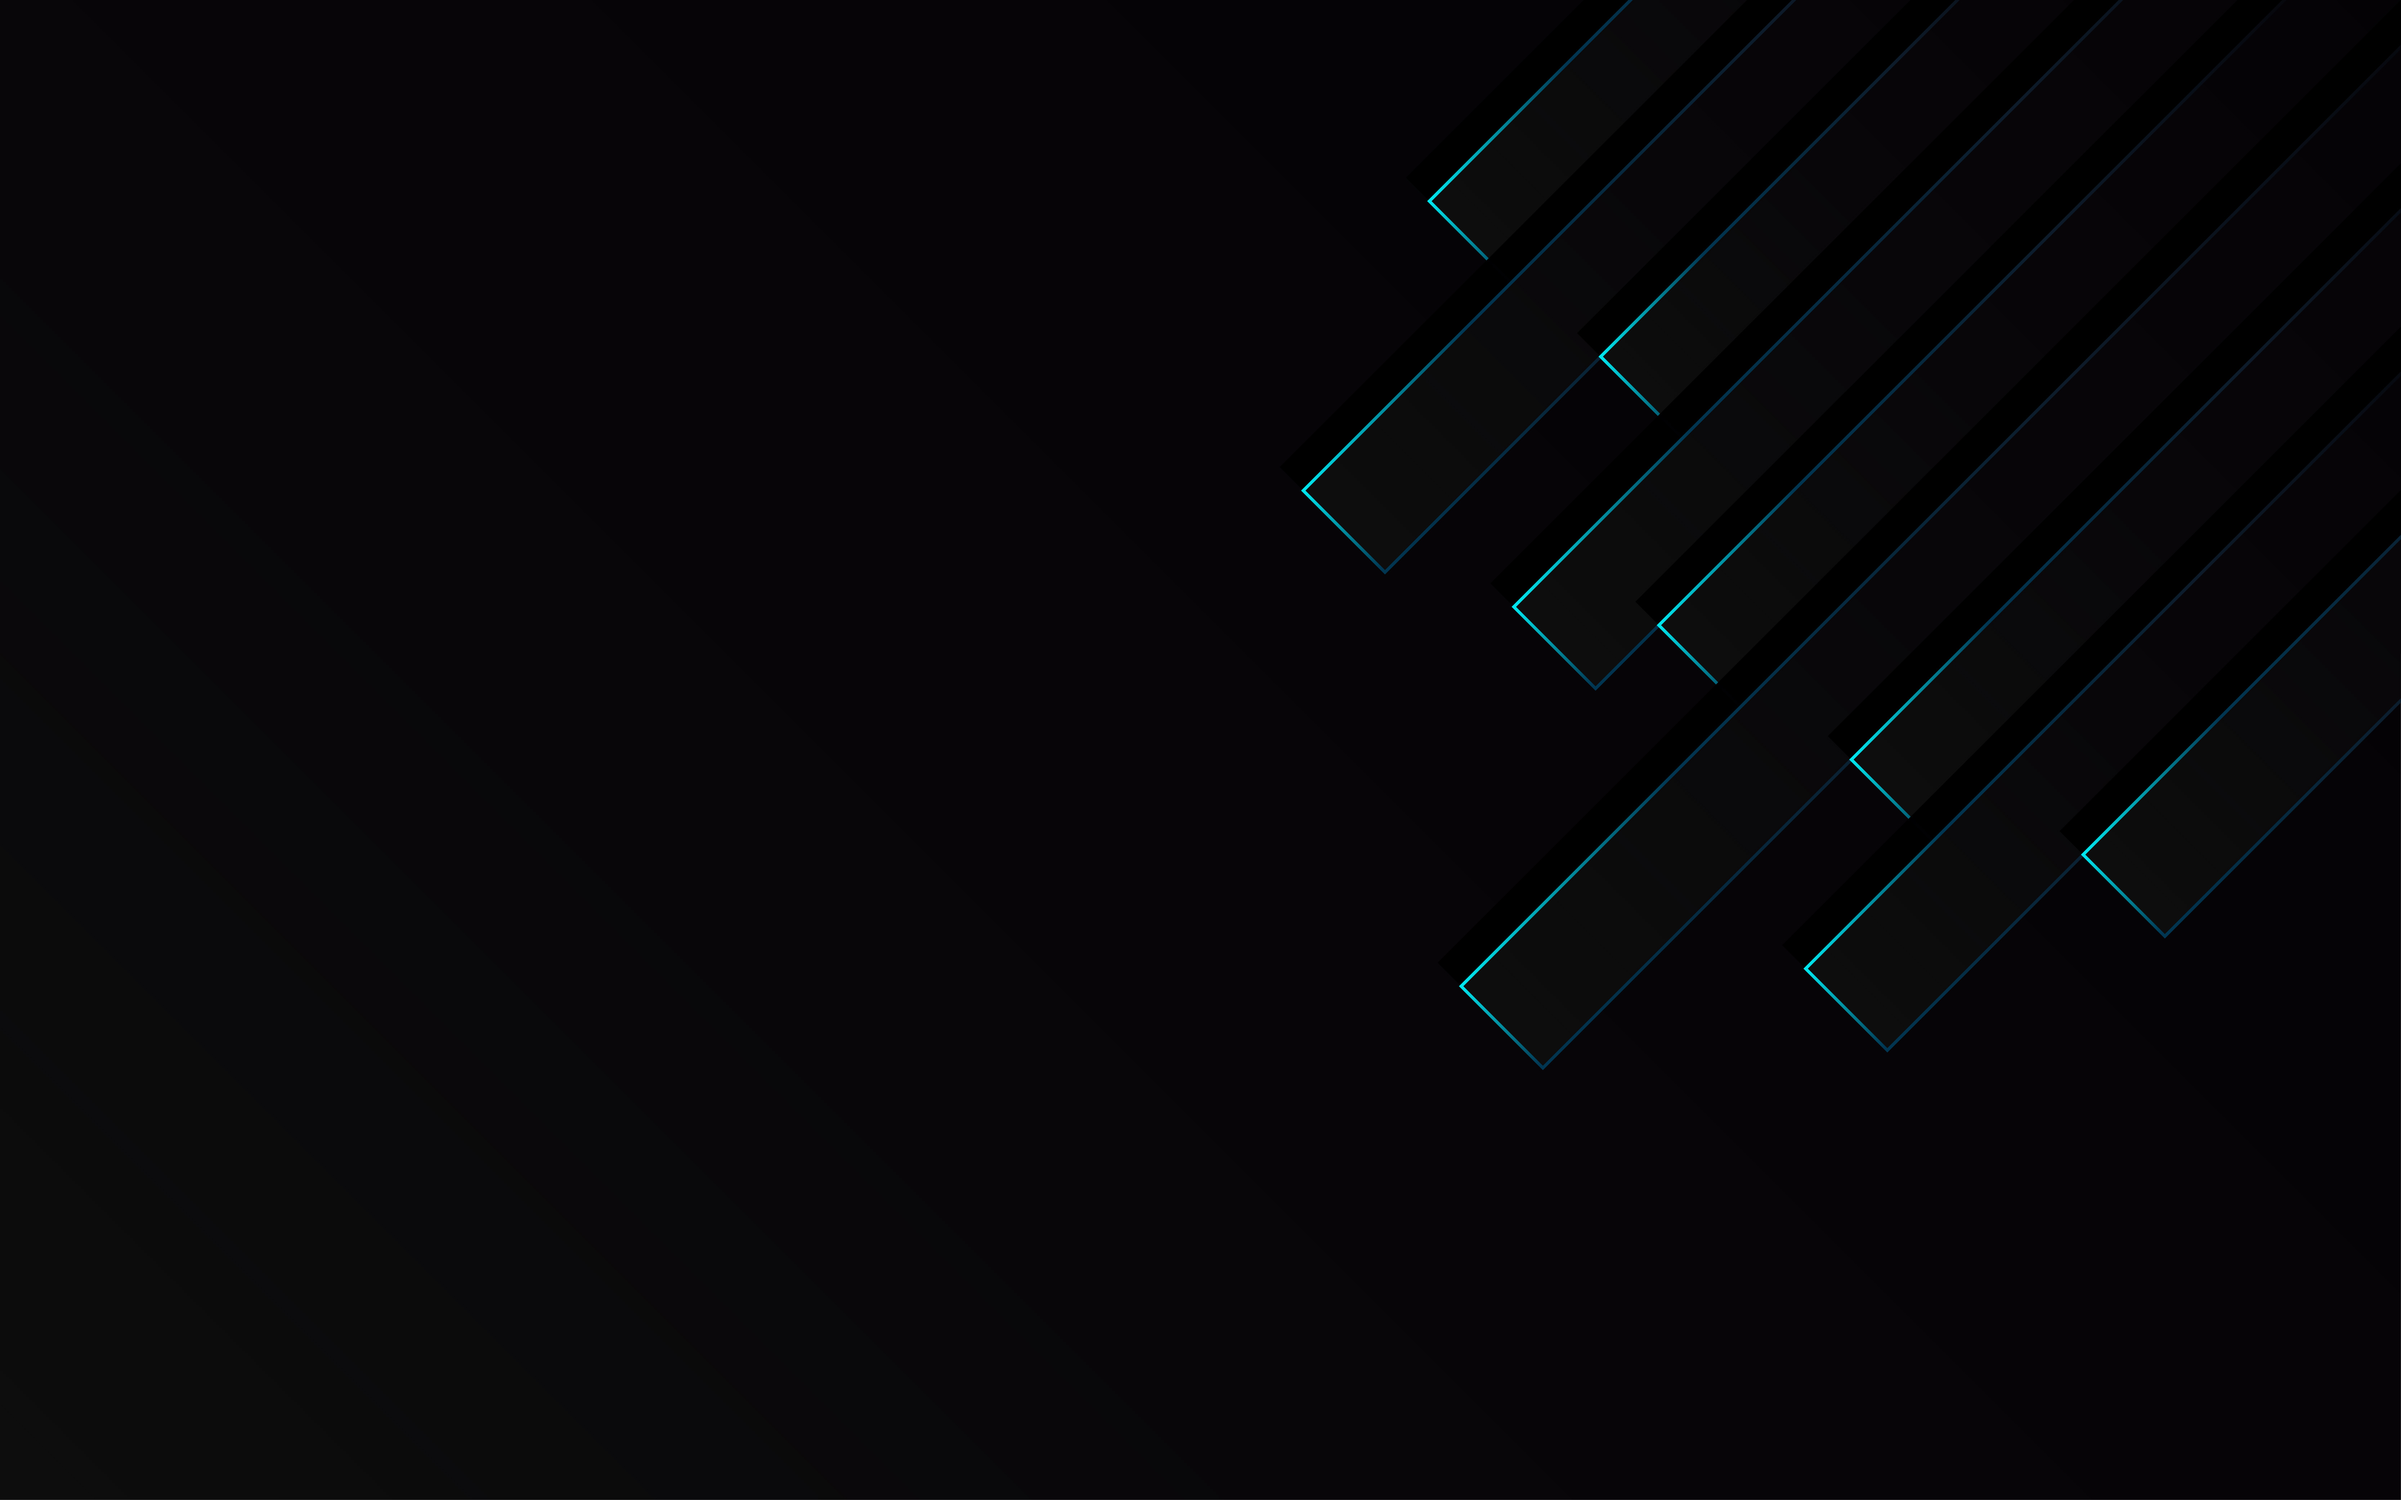
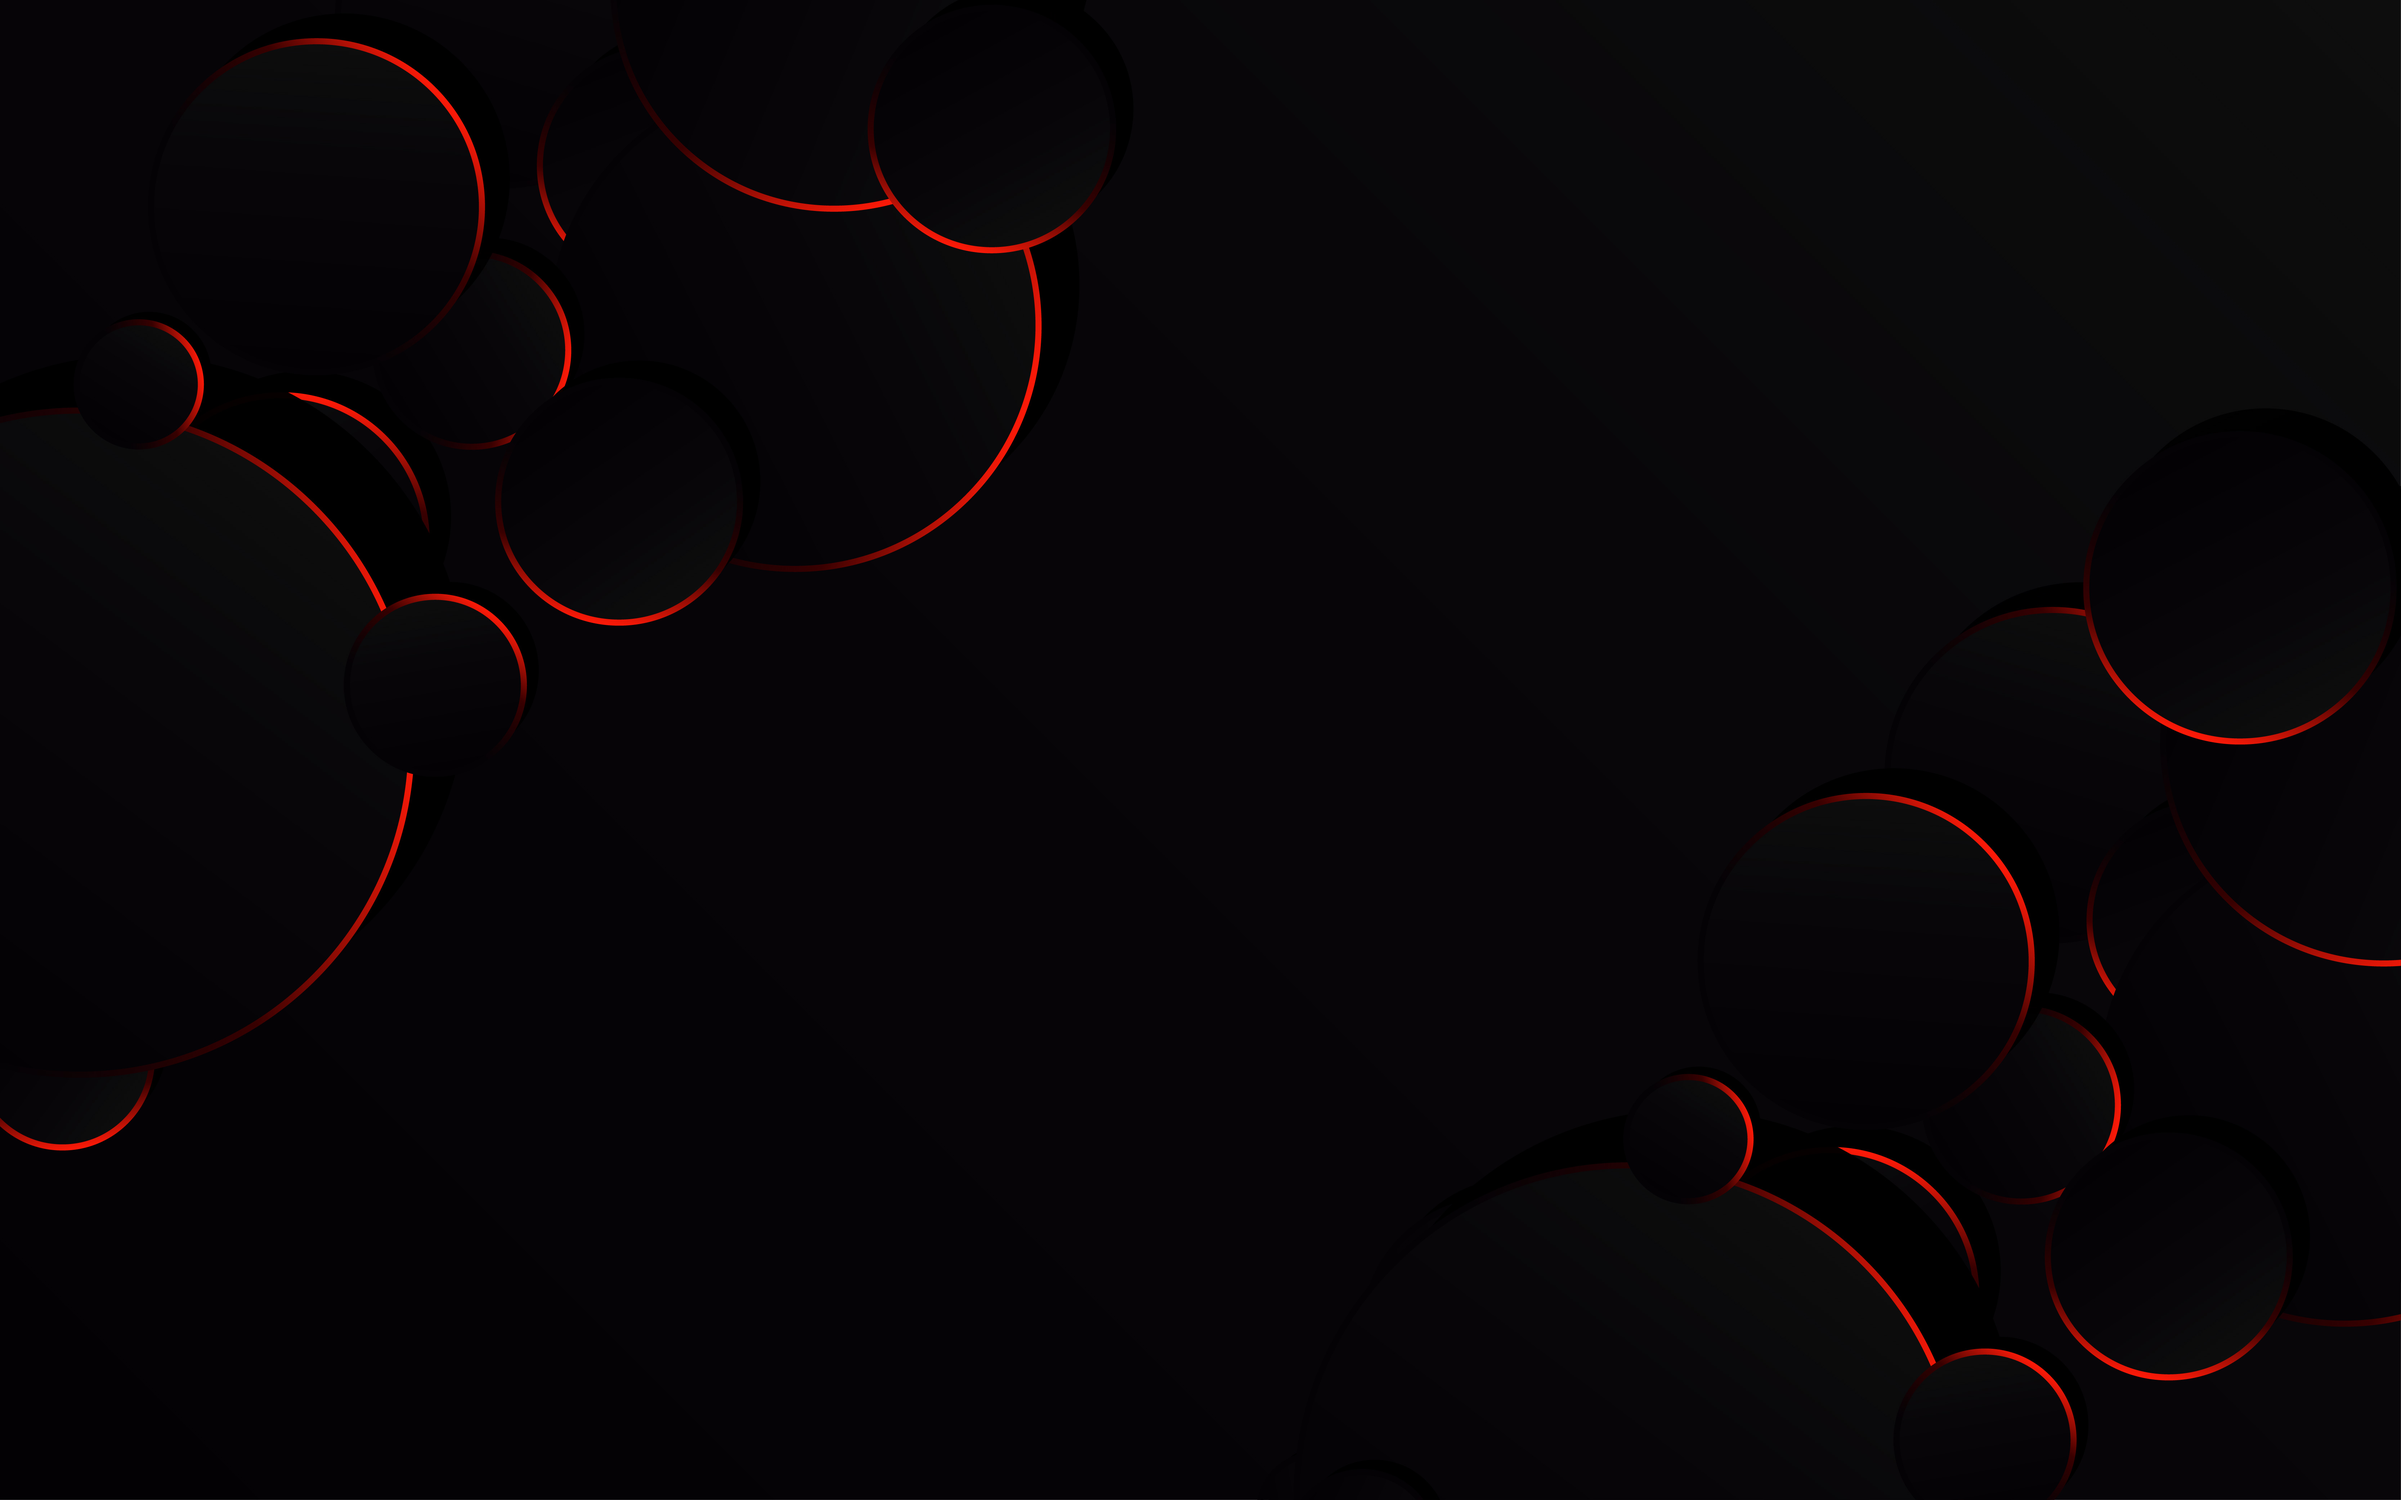
Introduced new background color to match with my accent color, and also added a highlight effect when hovering over tab-contents in the about section. Now, all I need to do is replace the placeholder image and text in the about me section, and then fix website responsiveness. Once these to-do items 

diff --git a/index.html b/index.html
@@ -45,39 +45,44 @@
     <!------------------ about ------------------>
 
     <div id="about">
-        <div class="container">
+        <div class="sticky-border"></div>
+        <div class="about-container">
             <div class="row">
                 <div class="about-col-1">
                     <img src="images/user2.jpg">
                 </div>
                 <div class="about-col-2">
                     <h1 class="sub-title">About Me</h1>
-                    <p>Lorem ipsum dolor sit amet, consectetur adipiscing elit, sed do eiusmod tempor incididunt ut labore et dolore magna aliqua. Ut enim ad minim veniam, quis nostrud exercitation ullamco laboris nisi ut aliquip ex ea commodo consequat. Duis aute irure dolor in reprehenderit in voluptate velit esse cillum dolore eu fugiat nulla pariatur. Excepteur sint occaecat cupidatat non proident, sunt in culpa qui officia deserunt mollit anim id est laborum.</p>
+                    <p class="about-text">Lorem ipsum dolor sit amet, consectetur adipiscing elit, sed do eiusmod tempor incididunt ut labore et dolore magna aliqua. Ut enim ad minim veniam, quis nostrud exercitation ullamco laboris nisi ut aliquip ex ea commodo consequat. Duis aute irure dolor in reprehenderit in voluptate velit esse cillum dolore eu fugiat nulla pariatur. Excepteur sint occaecat cupidatat non proident, sunt in culpa qui officia deserunt mollit anim id est laborum.</p>
                     
                     <div class="tab-titles">
                         <p class="tab-links active-link" onclick="opentab('skills')">Skills</p>
-                        <p class="tab-links" onclick="opentab('experience')">Experience</p>
                         <p class="tab-links" onclick="opentab('education')">Education</p>
+                        <p class="tab-links" onclick="opentab('hobbies')">Hobbies</p>
                     </div>
                     <div class="tab-contents active-tab" id="skills">
                         <ul>
-                            <li><span>UI/UX</span><br>Designing Web/App interfaces</li>
-                            <li><span>Web Development</span><br>Designing Web/App interfaces</li>
-                            <li><span>App Development</span><br>Designing Web/App interfaces</li>
-                        </ul>
-                    </div>
-                    <div class="tab-contents" id="experience">
-                        <ul>
-                            <li><span>1UI/UX</span><br>Designing Web/App interfaces</li>
-                            <li><span>Web Development</span><br>Designing Web/App interfaces</li>
-                            <li><span>App Development</span><br>Designing Web/App interfaces</li>
+                            <li><span>Programming Languages</span><br>Java, Python, HTML, CSS, Javascript, Node.js</li>
+                            <li><span>APIs / Frameworks</span><br>RESTful, Django, React</li>
+                            <li><span>Development Tools</span><br>Git, GitHub, Claude Code</li>
                         </ul>
                     </div>
                     <div class="tab-contents" id="education">
                         <ul>
-                            <li><span>2UI/UX</span><br>Designing Web/App interfaces</li>
-                            <li><span>Web Development</span><br>Designing Web/App interfaces</li>
-                            <li><span>App Development</span><br>Designing Web/App interfaces</li>
+                            <li><span>University of Colorado Colorado Springs (UCCS)</span>
+                                <br>Bachelor's of Science in Computer Science
+                                <br>
+                                <br>August 2020 - May 2025
+                                <br>Major in General Studies & Software Engineering
+                            </li>
+                        </ul>
+                    </div>
+                    <div class="tab-contents" id="hobbies">
+                        <ul>
+                            <li><span>3D Printing</span><br>Yes, I love 3D printing!</li>
+                            <li><span>CAD / 3D Modeling & Design</span><br>Design work using Onshape & Fusion 360</li>
+                            <li><span>Game Design & Development</span><br>Developing projects using Unity</li>
+                            <li><span>Drum & Bass Music</span><br>I love drum and bass music and listen to it all the time!</li>
                         </ul>
                     </div>
                 </div>

diff --git a/styles.css b/styles.css
@@ -15,7 +15,7 @@
 }
 
 body {
-    background: rgb(20, 20, 20);
+    background: rgb(10, 10, 10);
     color: white;
 }
 
@@ -32,7 +32,7 @@ body {
 .nav-container {
     padding: 0px 5%;
     background-color: black;
-    box-shadow: 0 2px 4px 0 rgba(0,0,0,0.2);
+    box-shadow: 0 2px 4px 0 rgba(0,0,0,0.5);
 
     top: 0;
     position: sticky;
@@ -88,7 +88,7 @@ nav ul li a:hover::after {
 }
 .header-text {
     margin-top: 10%;
-    font-size: clamp(1rem, 2.5vw, 2rem);
+    font-size: clamp(0.8rem, 2vw, 1.2rem);
 }
 .header-text p {
     color: var(--secondary-color);
@@ -195,9 +195,20 @@ nav ul li a:hover::after {
 /* ------------------ about ------------------ */
 
 #about {
-    padding: 80px 5%;
+    width: 100%;
+    height: 100vh;
+    background-image: url(images/background1.jpg);
+    background-size: cover;
+    background-position: right;
+    background-attachment: fixed;
+}
+.sticky-border {
+    border-top: 1px solid var(--secondary-color);
+}
+.about-container {
     color: var(--tertiary-color);
     font-weight: lighter;
+    padding: 80px 5%;
 }
 .row {
     display: flex;
@@ -219,6 +230,9 @@ nav ul li a:hover::after {
     color: var(--primary-color);
     font-weight: bold;
     margin-bottom: 16px;
+}
+.about-col-2 .about-text {
+    font-size: 14px;
 }
 
 .tab-titles {
@@ -251,8 +265,13 @@ nav ul li a:hover::after {
 }
 .tab-contents ul li {
     list-style: none;
-    margin: 16px 0;
-    font-size: medium;
+    margin-bottom: 24px;
+    font-size: 14px;
+
+    transition: 0.25s;
+}
+.tab-contents ul li:hover {
+    font-weight: bold;
 }
 .tab-contents ul li span {
     color: var(--accent-color);
